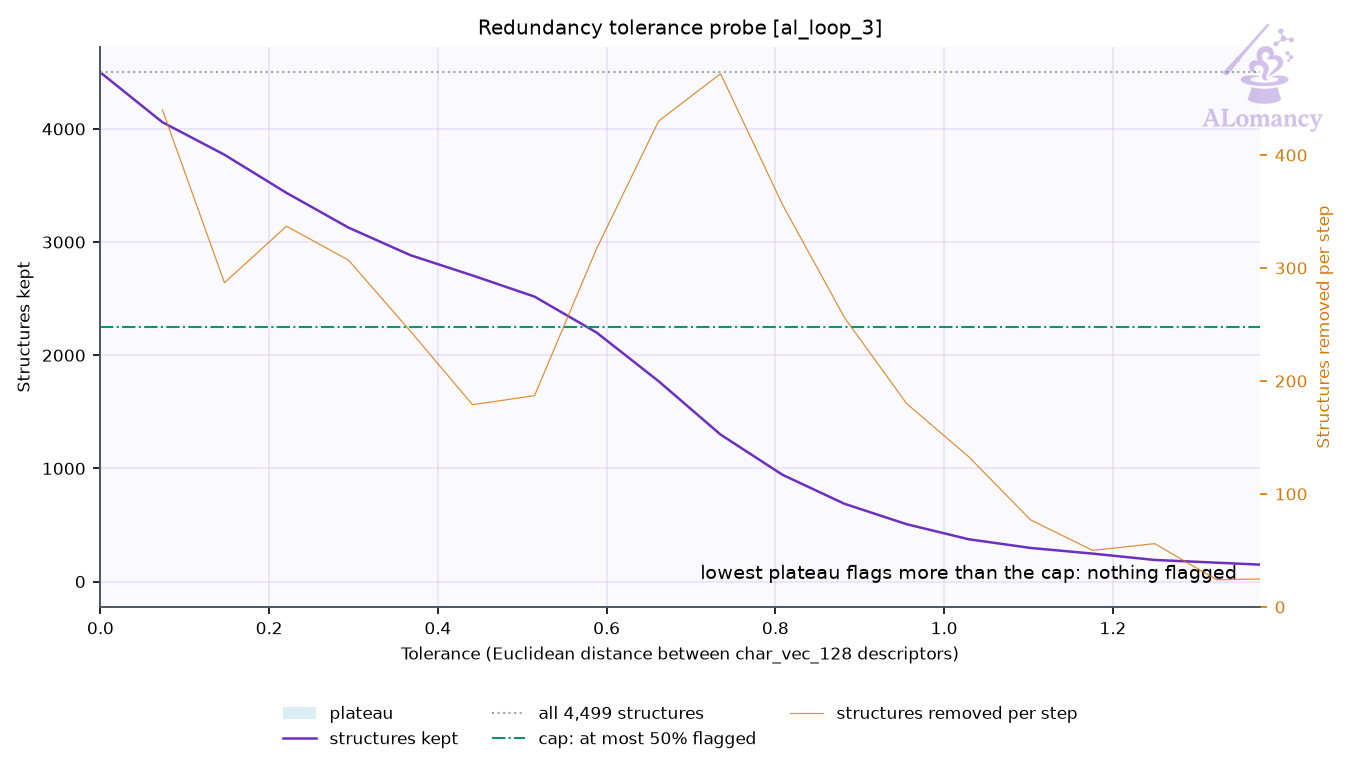
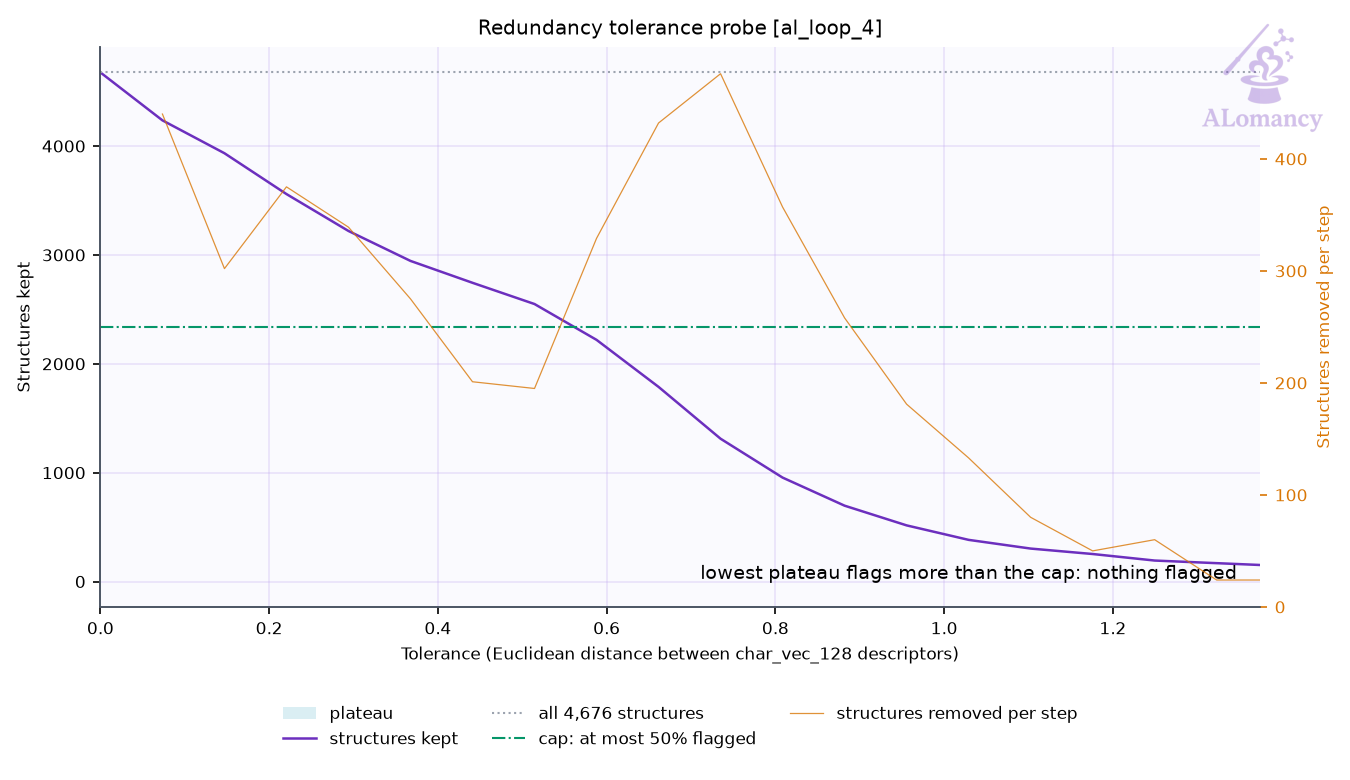
update good_c, yun_an

diff --git a/alomancy/good_c/report/report.md b/alomancy/good_c/report/report.md
@@ -1,26 +1,25 @@
-# ALomancy report: al_loop_3
+# ALomancy report: al_loop_4
 
-Workflow `committee_uncertainty` · trainer `mace` · generator `md` · evaluator `qe` · generated 2026-11-07T14:55:16
+Workflow `committee_uncertainty` · trainer `mace` · generator `md` · evaluator `qe` · generated 2026-11-08T05:13:49
 
-**Status:** 💡 2 infos · 5 warning(s) logged
+**Status:** 💡 1 info · 3 warning(s) logged
 
 ## Headline
 
-| | loop 2 | loop 3 | change |
+| | loop 3 | loop 4 | change |
 |---|---:|---:|---:|
-| Best model test force MAE (eV/Å) | 0.206 | 0.205 | -1% |
-| Best model test energy MAE (meV/atom) | 18.1 | 21.9 | +21% |
-| Training structures | 4.45e+03 | 4.71e+03 | +6% |
-| Test structures | 460 | 490 | +7% |
-| New structures this loop | 298 | 295 | -1% |
-| Warnings / errors logged | 4 | 5 | +25% |
+| Best model test force MAE (eV/Å) | 0.205 | 0.201 | -2% |
+| Best model test energy MAE (meV/atom) | 21.9 | 20.9 | -5% |
+| Training structures | 4.71e+03 | 4.96e+03 | +5% |
+| Test structures | 490 | 520 | +6% |
+| New structures this loop | 295 | 300 | +2% |
+| Warnings / errors logged | 5 | 3 | -40% |
 
-Best model: fit_2 of 3 (chosen on the `valid` split).
+Best model: fit_1 of 3 (chosen on the `valid` split).
 
 ## Issues & suggestions
 
-- 💡 **queue_dominated**: training_plots spent 82% of its time (8.9 h) queued. Raise max_num_of_concurrent_jobs in the HPC profile or use a less busy partition.
-- 💡 **overfitting**: The best model's test force MAE (0.205 eV/Å) is 2.3x its training MAE (0.0895 eV/Å). The test set covers configurations training doesn't: keep adding data, or raise general.dataset_kwargs.valid_fraction to select models on held-out data.
+- 💡 **overfitting**: The best model's test force MAE (0.201 eV/Å) is 2.4x its training MAE (0.0851 eV/Å). The test set covers configurations training doesn't: keep adding data, or raise general.dataset_kwargs.valid_fraction to select models on held-out data.
 
 ## Trends
 
@@ -30,6 +29,7 @@ Best model: fit_2 of 3 (chosen on the `valid` split).
 | 1 | 0.219 | 4186 | 292 | 96/100 | 99% | 0 | 8 |
 | 2 | 0.206 | 4449 | 298 | 99/100 | 98% | 0 | 4 |
 | 3 | 0.205 | 4708 | 295 | 98/100 | 100% | 0 | 5 |
+| 4 | 0.201 | 4963 | 300 | 100/100 | 99% | 0 | 3 |
 
 ![Best-model MAE per loop](plots/training_al_loop_mae_plot.png)
 
@@ -45,7 +45,7 @@ No predictions stored for this loop's best model.
 |---|---:|---:|---:|---:|
 | CNa_dataset | 3538 | 392 | 662 | 4592 |
 | IsolatedAtom | 1 | 0 | 0 | 1 |
-| high_sd | 850 | 94 | 56 | 1000 |
+| high_sd | 1105 | 124 | 71 | 1300 |
 | init_MP | 7 | 1 | 0 | 8 |
 | init_amorphous | 26 | 3 | 0 | 29 |
 | init_dimer | 99 | 0 | 0 | 99 |
@@ -54,10 +54,10 @@ No predictions stored for this loop's best model.
 | init_trimer | 50 | 0 | 0 | 50 |
 | on_hull | 1 | 0 | 0 | 1 |
 | on_hull_expansion | 11 | 0 | 9 | 20 |
-| **all** | **4708** | **490** | **1144** | **6342** |
+| **all** | **4963** | **520** | **1159** | **6642** |
 
-- Redundancy removal: 0 structure(s) flagged in total, 0 of this loop's 295 new.
-- Quality filters: high_force: 1135, formation_energy: 21.
+- Redundancy removal: 0 structure(s) flagged in total, 0 of this loop's 300 new.
+- Quality filters: high_force: 1150, formation_energy: 21.
 
 ![Training set composition](plots/training_set_composition.png)
 
@@ -65,21 +65,21 @@ No predictions stored for this loop's best model.
 
 Redundancy removal flags near-duplicate training structures, so the model isn't trained on many copies of the same geometry. Each structure is described by `char_vec_128`: all of its interatomic distances, sorted and resampled to 128 values (`global_descriptor/atomic_distance_descriptor.make_char_vec`). Two structures count as duplicates when the Euclidean distance between their descriptors is below a tolerance: in database order, each structure still in the training set is kept unless it is within the tolerance of one already kept. The plot sweeps that tolerance and counts how many structures are kept at each value. **We are looking for plateaus** (shaded): ranges where the count doesn't change, so the result doesn't depend on the exact tolerance. The orange line (right axis) is the number of structures removed between consecutive tolerance steps, the gradient of the count: zero on a plateau. The start of the lowest plateau at least `general.redundancy_kwargs.min_plateau_width` of the swept range wide is used (dashed line). Nothing is flagged when no plateau qualifies, or when it would flag more than `max_flagged_fraction` of the structures; `general.redundancy_kwargs.tolerance` sets the tolerance directly.
 
-- This loop: 4,499 structures probed; the lowest plateau would flag more than 50% of them, so nothing was flagged.
+- This loop: 4,676 structures probed; the lowest plateau would flag more than 50% of them, so nothing was flagged.
 
 ![Redundancy tolerance probe](plots/redundancy_tolerance_probe.png)
 
 ## DFT
 
-- Structures: 98 returned of 100 submitted (98 relaxed, 0 single point).
-- Geometry optimisation: 98/98 reached the force ceiling (0.05 eV/Å); steps mean 25.9, median 23, max 142 of 200 allowed.
-- Average DFT time per relaxation: 98.4 min (median 45.2, max 694.4; 98 structures).
-- Largest per-atom force after DFT: median 0.04, max 0.05 eV/Å.
-- DFT phase wall-clock: 11.8 h (mean queue time 5 min).
+- Structures: 100 returned of 100 submitted (100 relaxed, 0 single point).
+- Geometry optimisation: 99/100 reached the force ceiling (0.05 eV/Å); steps mean 28.4, median 16, max 200 of 200 allowed.
+- Average DFT time per relaxation: 52.5 min (median 11.3, max 376.1; 100 structures).
+- Largest per-atom force after DFT: median 0.04, max 2.36 eV/Å.
+- DFT phase wall-clock: 6.4 h (mean queue time 3 min).
 
 ## MLIP training: mace
 
-- Best fit (fit_2) trained for 299 epochs, stage two from epoch 240; weights kept from epoch 256.
+- Best fit (fit_1) trained for 299 epochs, stage two from epoch 240; weights kept from epoch 244.
 
 ![Best model training curve](plots/best_model_training_curve.png)
 
@@ -101,7 +101,7 @@ Redundancy removal flags near-duplicate training structures, so the model isn't 
 
 ## Selection: committee uncertainty
 
-- 819 candidates scored; 100 selected (max force std dev ≥ 0.303 eV/Å).
+- 824 candidates scored; 100 selected (max force std dev ≥ 0.253 eV/Å).
 
 ![Committee force std dev](plots/committee_force_std_dev.png)
 
@@ -111,7 +111,6 @@ Redundancy removal flags near-duplicate training structures, so the model isn't 
 |---|---|---:|
 | `blown_up_excluded` |  | 1 |
 | `dft_summary` | DFT batch summary | 1 |
-| `job_failed` | remote job failed | 2 |
 | `jobs_started` | remote jobs started | 4 |
 | `md_summary` | MD summary | 1 |
 | `md_volume_expanded` |  | 1 |
